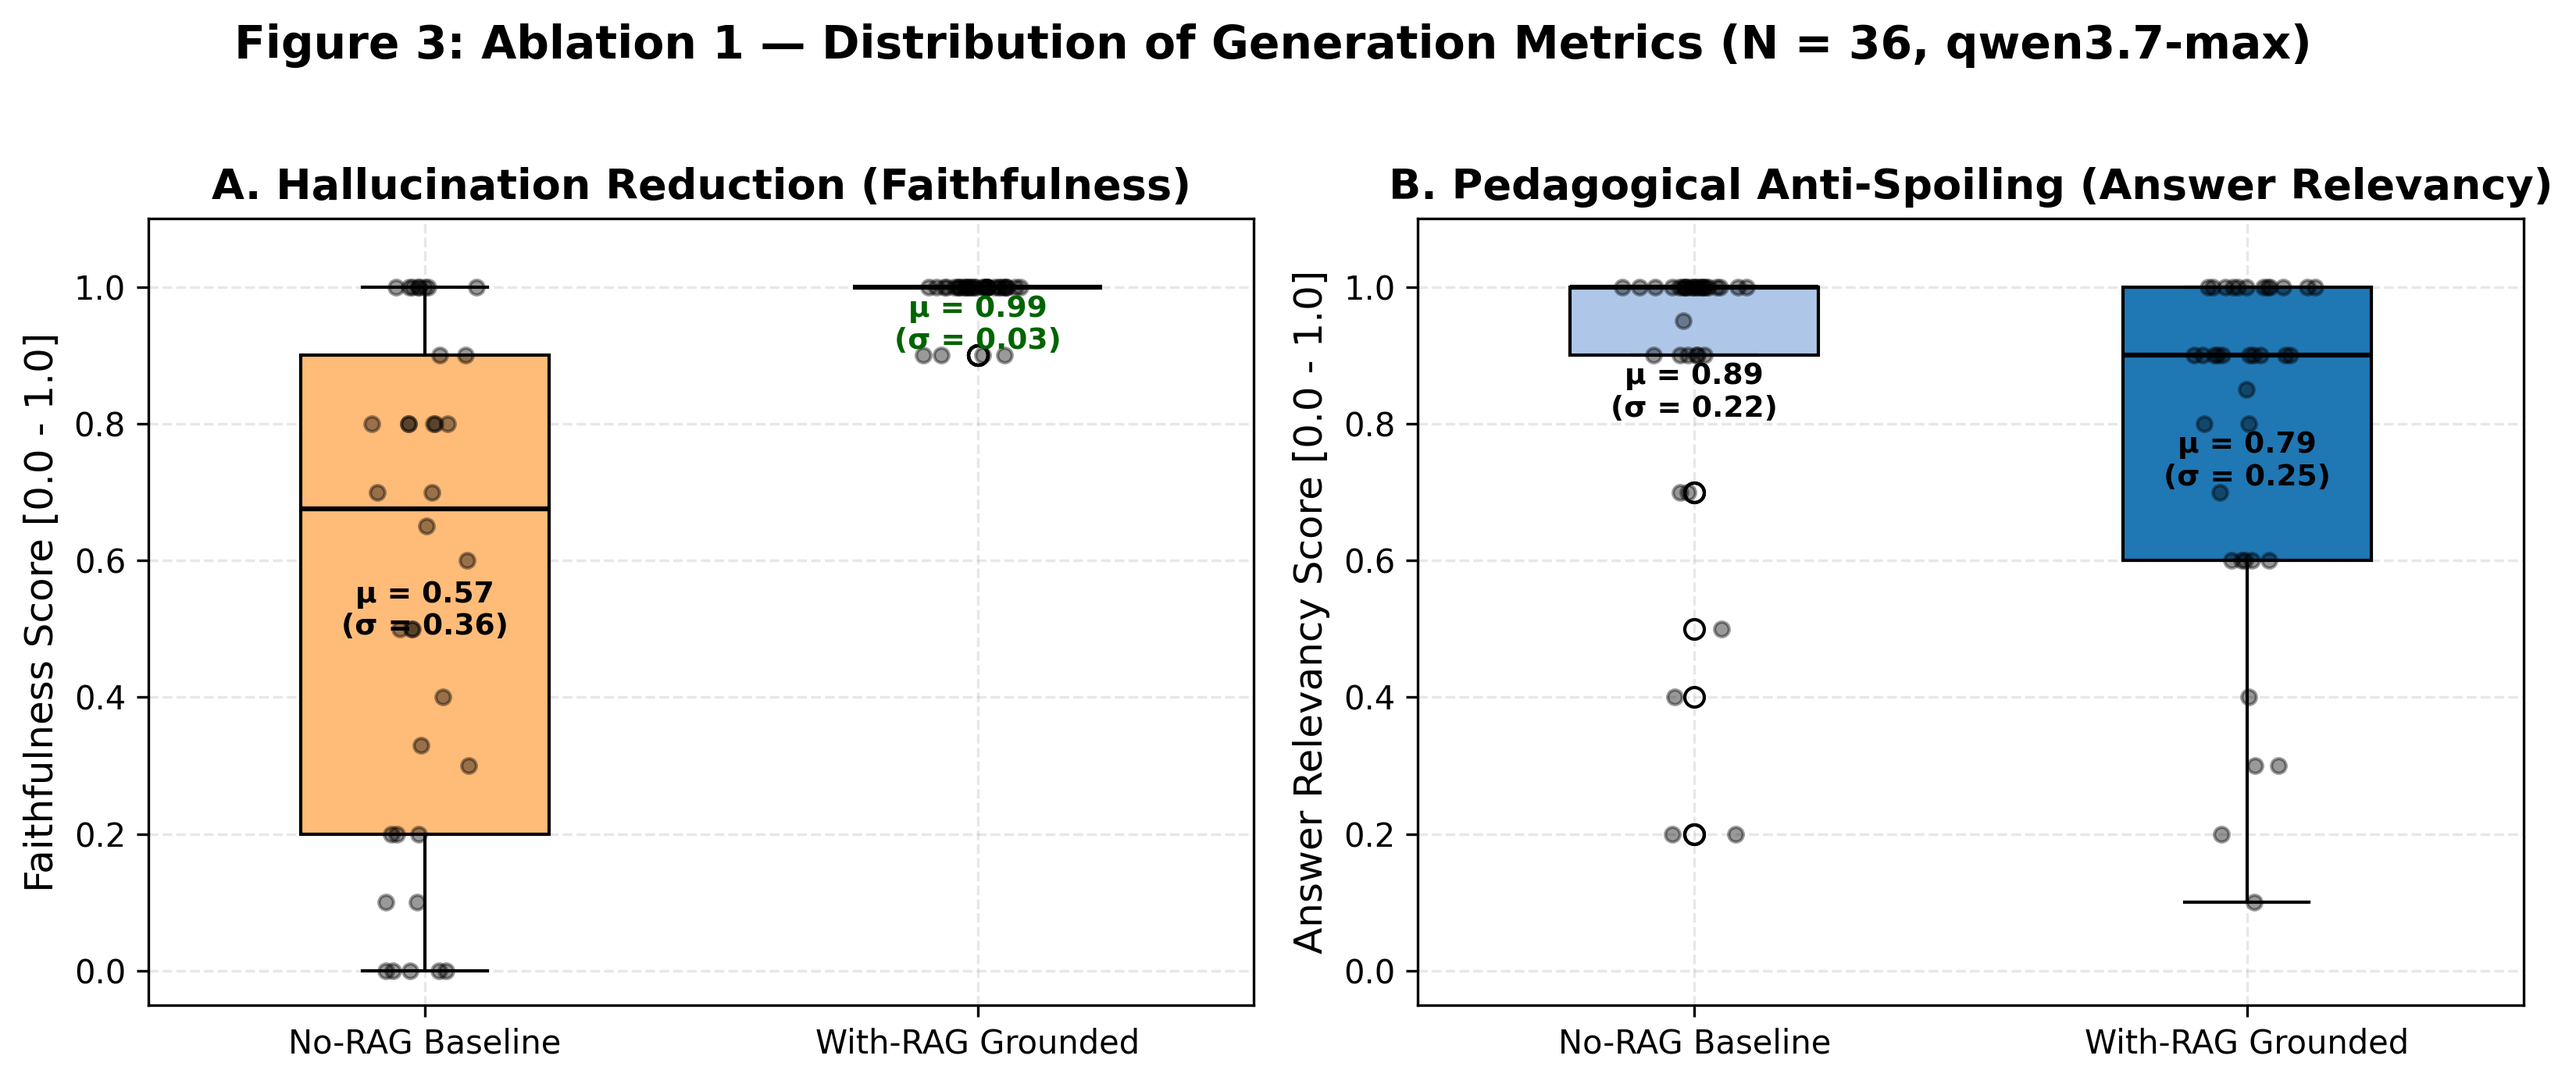
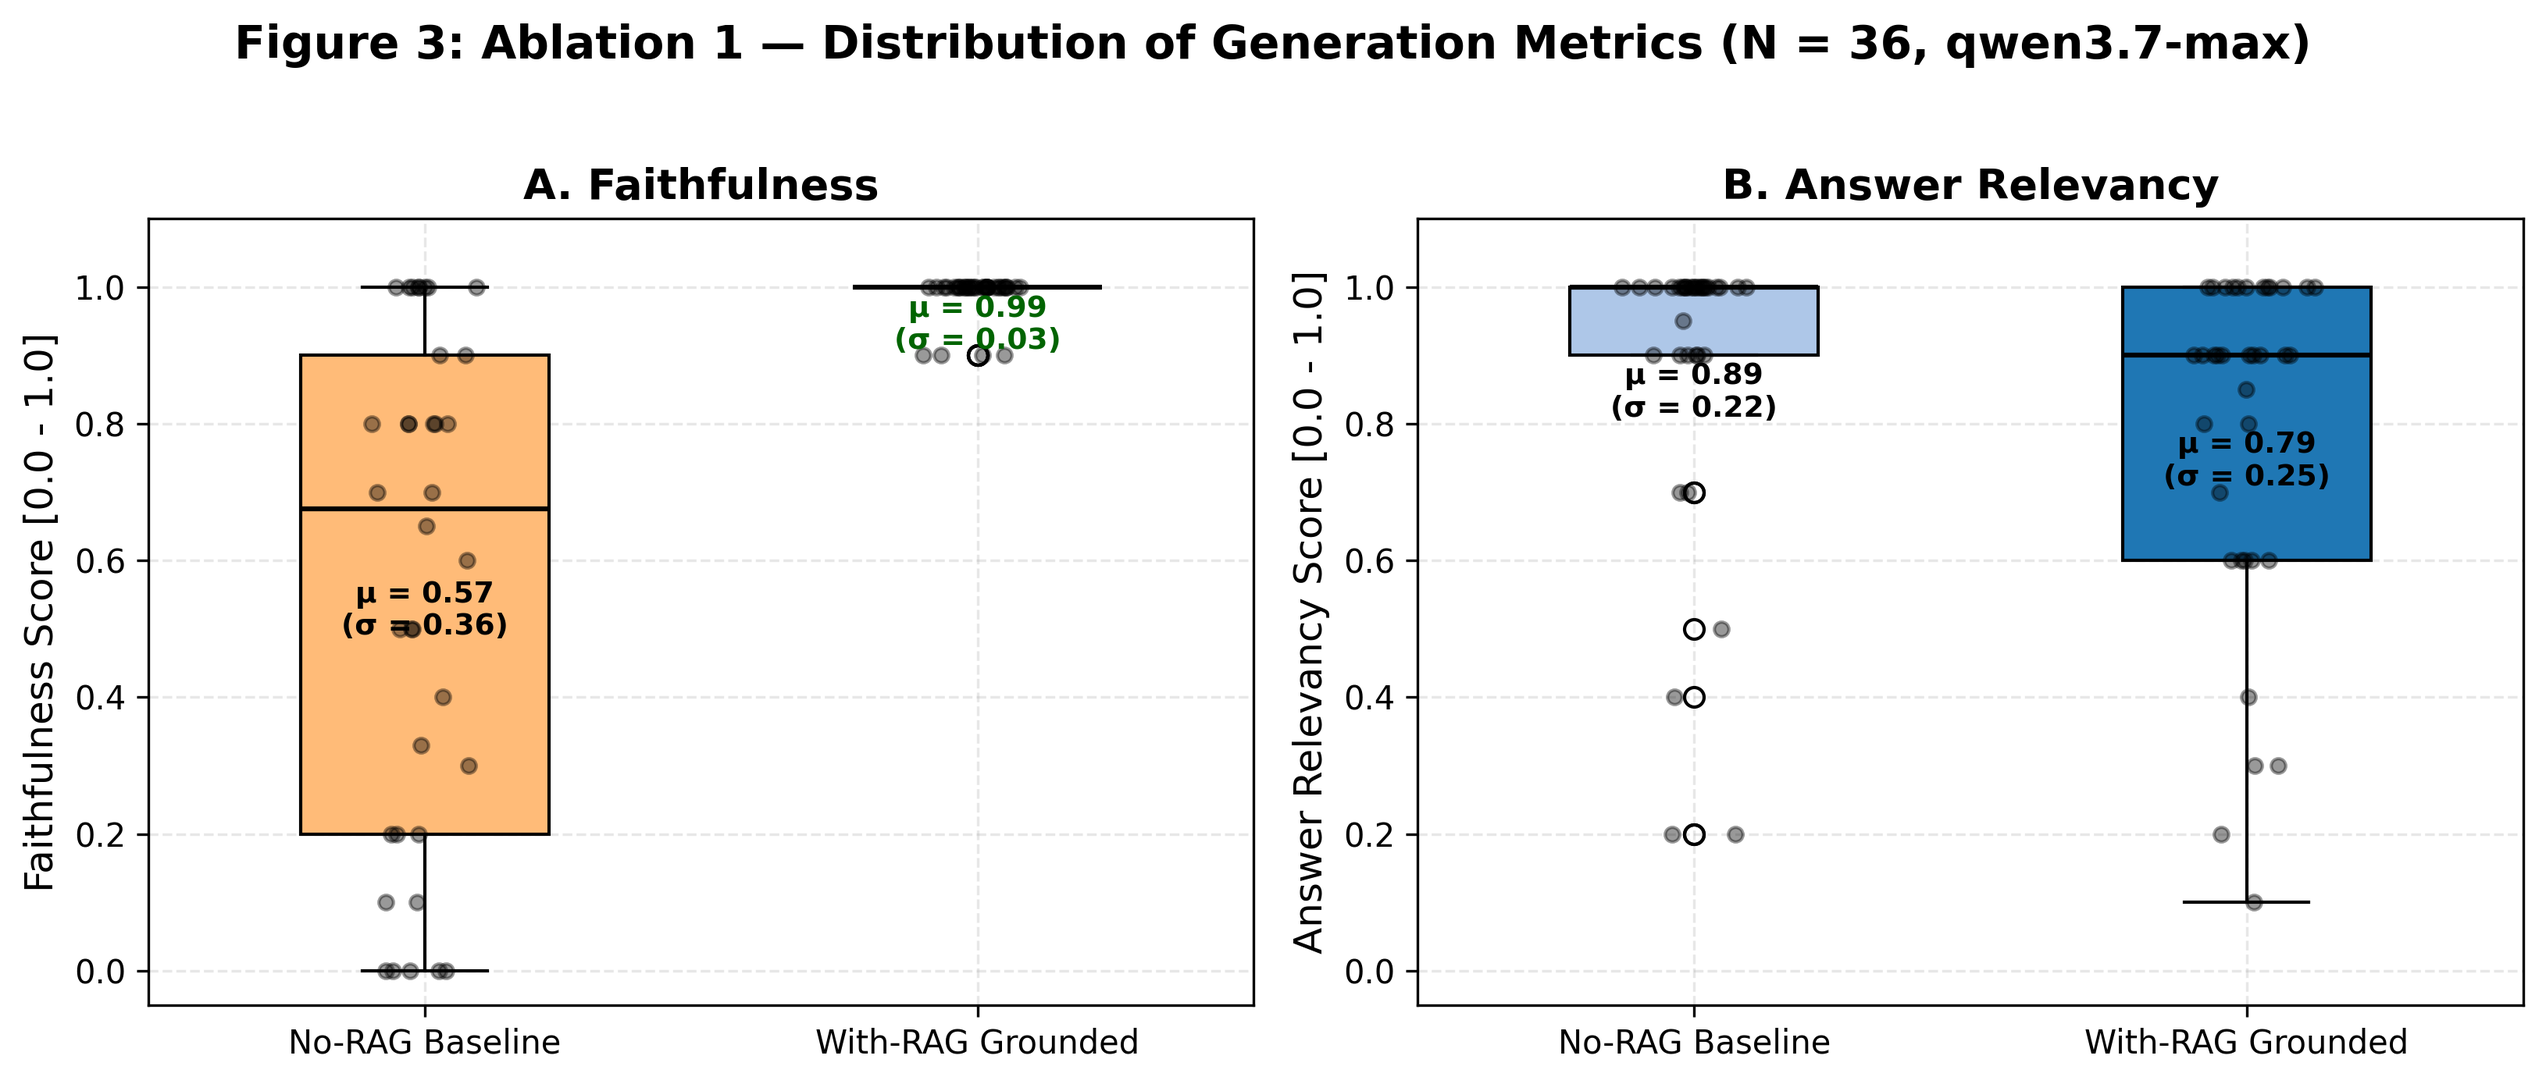
[Result] added the missing vertical axis label (Answer Relevancy Score [0.0 - 1.0]) to the right subplot (B) of Figure 5. [Result] updated Figure 5 to be a 2x2 grid that includes the other two ablation experiments. The updated figure now displays: - A. Faithfulness Across Models (Ablation 1) - B. An

diff --git a/rag-server/plot_results.py b/rag-server/plot_results.py
@@ -244,7 +244,7 @@ def plot_fig3_ablation_rag_effect():
         x_jitter = np.random.normal(i, 0.05, size=len(pts))
         axes[0].scatter(x_jitter, pts, alpha=0.4, color='black', s=20, zorder=3)
 
-    axes[0].set_title('A. Hallucination Reduction (Faithfulness)', fontweight='bold')
+    axes[0].set_title('A. Faithfulness', fontweight='bold')
     axes[0].set_ylabel('Faithfulness Score [0.0 - 1.0]')
     axes[0].set_ylim(-0.05, 1.1)
     axes[0].text(1, np.mean(no_rag_faith) - 0.08, f'μ = {np.mean(no_rag_faith):.2f}\n(σ = {np.std(no_rag_faith):.2f})', ha='center', fontsize=9, fontweight='bold')
@@ -261,7 +261,7 @@ def plot_fig3_ablation_rag_effect():
         x_jitter = np.random.normal(i, 0.05, size=len(pts))
         axes[1].scatter(x_jitter, pts, alpha=0.4, color='black', s=20, zorder=3)
 
-    axes[1].set_title('B. Pedagogical Anti-Spoiling (Answer Relevancy)', fontweight='bold')
+    axes[1].set_title('B. Answer Relevancy', fontweight='bold')
     axes[1].set_ylabel('Answer Relevancy Score [0.0 - 1.0]')
     axes[1].set_ylim(-0.05, 1.1)
     axes[1].text(1, np.mean(no_rag_rel) - 0.08, f'μ = {np.mean(no_rag_rel):.2f}\n(σ = {np.std(no_rag_rel):.2f})', ha='center', fontsize=9, fontweight='bold')
@@ -287,7 +287,7 @@ def plot_fig4_ablation_filters_and_embeddings():
     with open(abl_file, 'r', encoding='utf-8') as f:
         data = json.load(f)
 
-    fig, axes = plt.subplots(1, 2, figsize=(12, 4.2))
+    fig, axes = plt.subplots(1, 2, figsize=(12, 5))
 
     abl2 = data.get('ablation_2_exercise_filter', {}).get('summary', {})
     if abl2:
@@ -320,7 +320,7 @@ def plot_fig4_ablation_filters_and_embeddings():
     abl3 = data.get('ablation_3_title_embedding', {}).get('summary', {})
     if abl3:
         metrics = ['hit@1', 'hit@3', 'hit@5', 'mrr']
-        labels = ['Hit@1 (%)', 'Hit@3 (%)', 'Hit@5 (%)', 'MRR (×100)']
+        labels = ['Hit@1 (%)', 'Hit@3 (%)', 'Hit@5 (%)', 'MRR']
         x = np.arange(len(metrics))
         width = 0.35
 
@@ -335,7 +335,7 @@ def plot_fig4_ablation_filters_and_embeddings():
         axes[1].set_xticklabels(labels)
         axes[1].set_ylabel('Retrieval Accuracy (%)')
         axes[1].set_ylim(min(min(content_only), min(title_content)) - 5, 102)
-        axes[1].legend(loc='lower right', frameon=True)
+        axes[1].legend(loc='upper right', frameon=True)
 
         for bars in [b_co, b_tc]:
             for bar in bars:
@@ -364,6 +364,10 @@ def plot_fig5_cross_model_comparison():
     with_rag_faiths = []
     no_rag_rels = []
     with_rag_rels = []
+    unfilt_prec3 = []
+    filt_prec3 = []
+    co_mrr = []
+    tc_mrr = []
 
     for path in sorted(files):
         m = re.search(r'[_|-](qwen3\.[0-9]+-[a-zA-Z]+)[\-_]', os.path.basename(path))
@@ -371,47 +375,88 @@ def plot_fig5_cross_model_comparison():
             name = m.group(1)
             with open(path, 'r', encoding='utf-8') as f:
                 data = json.load(f)
-                d = data.get('ablation_1_rag_effect', {}).get('summary', {})
+                d1 = data.get('ablation_1_rag_effect', {}).get('summary', {})
                 models.append(name)
-                no_rag_faiths.append(d.get('No-RAG', {}).get('faithfulness', 0.0))
-                with_rag_faiths.append(d.get('With-RAG (Dense)', {}).get('faithfulness', 0.0))
-                no_rag_rels.append(d.get('No-RAG', {}).get('answer_relevancy', 0.0))
-                with_rag_rels.append(d.get('With-RAG (Dense)', {}).get('answer_relevancy', 0.0))
+                no_rag_faiths.append(d1.get('No-RAG', {}).get('faithfulness', 0.0))
+                with_rag_faiths.append(d1.get('With-RAG (Dense)', {}).get('faithfulness', 0.0))
+                no_rag_rels.append(d1.get('No-RAG', {}).get('answer_relevancy', 0.0))
+                with_rag_rels.append(d1.get('With-RAG (Dense)', {}).get('answer_relevancy', 0.0))
+
+                abl2 = data.get('ablation_2_exercise_filter', {}).get('summary', {})
+                unfilt_prec3.append(abl2.get('Unfiltered (excludeExercises=False)', {}).get('prec@3', 0.0) * 100)
+                filt_prec3.append(abl2.get('Filtered (excludeExercises=True)', {}).get('prec@3', 0.0) * 100)
+
+                abl3 = data.get('ablation_3_title_embedding', {}).get('summary', {})
+                co_mrr.append(abl3.get('Content-Only Embedding', {}).get('mrr', 0.0) * 100)
+                tc_mrr.append(abl3.get('Title+Content Embedding', {}).get('mrr', 0.0) * 100)
 
     if not models:
         return
 
-    fig, axes = plt.subplots(1, 2, figsize=(11, 4.3), sharey=True)
+    fig, axes = plt.subplots(2, 2, figsize=(13, 9))
     x = np.arange(len(models))
     width = 0.35
 
-    b_nf = axes[0].bar(x - width/2, no_rag_faiths, width, label='No-RAG', color=PALETTE['light_orange'], edgecolor='black', alpha=0.85)
-    b_wf = axes[0].bar(x + width/2, with_rag_faiths, width, label='With-RAG', color=PALETTE['green'], edgecolor='black', alpha=0.85)
-    axes[0].set_title('A. Faithfulness Across Models', fontweight='bold')
-    axes[0].set_xticks(x)
-    axes[0].set_xticklabels(models, rotation=15)
-    axes[0].set_ylabel('Faithfulness Score [0.0 - 1.0]')
-    axes[0].set_ylim(0, 1.15)
-    axes[0].legend(loc='lower right', frameon=True)
+    b_nf = axes[0, 0].bar(x - width/2, no_rag_faiths, width, label='No-RAG', color=PALETTE['light_orange'], edgecolor='black', alpha=0.85)
+    b_wf = axes[0, 0].bar(x + width/2, with_rag_faiths, width, label='With-RAG', color=PALETTE['green'], edgecolor='black', alpha=0.85)
+    axes[0, 0].set_title('A. Faithfulness Across Models', fontweight='bold')
+    axes[0, 0].set_xticks(x)
+    axes[0, 0].set_xticklabels(models, rotation=15)
+    axes[0, 0].set_ylabel('Faithfulness Score [0.0 - 1.0]')
+    axes[0, 0].set_ylim(0, 1.15)
+    axes[0, 0].legend(loc='upper right', frameon=True)
 
     for bars in [b_nf, b_wf]:
         for bar in bars:
             height = bar.get_height()
-            axes[0].annotate(f'{height:.2f}', xy=(bar.get_x() + bar.get_width() / 2, height),
+            axes[0, 0].annotate(f'{height:.2f}', xy=(bar.get_x() + bar.get_width() / 2, height),
                              xytext=(0, 2), textcoords="offset points", ha='center', va='bottom', fontsize=8, fontweight='bold')
 
-    b_nr = axes[1].bar(x - width/2, no_rag_rels, width, label='No-RAG', color=PALETTE['light_blue'], edgecolor='black', alpha=0.85)
-    b_wr = axes[1].bar(x + width/2, with_rag_rels, width, label='With-RAG', color=PALETTE['primary'], edgecolor='black', alpha=0.85)
-    axes[1].set_title('B. Answer Relevancy Across Models', fontweight='bold')
-    axes[1].set_xticks(x)
-    axes[1].set_xticklabels(models, rotation=15)
-    axes[1].set_ylabel('')
-    axes[1].legend(loc='lower right', frameon=True)
+    b_nr = axes[0, 1].bar(x - width/2, no_rag_rels, width, label='No-RAG', color=PALETTE['light_blue'], edgecolor='black', alpha=0.85)
+    b_wr = axes[0, 1].bar(x + width/2, with_rag_rels, width, label='With-RAG', color=PALETTE['primary'], edgecolor='black', alpha=0.85)
+    axes[0, 1].set_title('B. Answer Relevancy Across Models', fontweight='bold')
+    axes[0, 1].set_xticks(x)
+    axes[0, 1].set_xticklabels(models, rotation=15)
+    axes[0, 1].set_ylabel('Answer Relevancy Score [0.0 - 1.0]')
+    axes[0, 1].set_ylim(0, 1.15)
+    axes[0, 1].legend(loc='upper right', frameon=True)
 
     for bars in [b_nr, b_wr]:
         for bar in bars:
             height = bar.get_height()
-            axes[1].annotate(f'{height:.2f}', xy=(bar.get_x() + bar.get_width() / 2, height),
+            axes[0, 1].annotate(f'{height:.2f}', xy=(bar.get_x() + bar.get_width() / 2, height),
+                             xytext=(0, 2), textcoords="offset points", ha='center', va='bottom', fontsize=8, fontweight='bold')
+
+    b_unf = axes[1, 0].bar(x - width/2, unfilt_prec3, width, label='Unfiltered', color=PALETTE['red'], edgecolor='black', alpha=0.75)
+    b_fil = axes[1, 0].bar(x + width/2, filt_prec3, width, label='Filtered (Exclude)', color=PALETTE['green'], edgecolor='black', alpha=0.85)
+    axes[1, 0].set_title('C. Retrieval: ± Exercise Filter (Prec@3)', fontweight='bold')
+    axes[1, 0].set_xticks(x)
+    axes[1, 0].set_xticklabels(models, rotation=15)
+    axes[1, 0].set_ylabel('Prec@3 (%)')
+    if unfilt_prec3 and filt_prec3:
+        axes[1, 0].set_ylim(0, max(max(unfilt_prec3), max(filt_prec3)) + 10)
+    axes[1, 0].legend(loc='upper right', frameon=True)
+
+    for bars in [b_unf, b_fil]:
+        for bar in bars:
+            height = bar.get_height()
+            axes[1, 0].annotate(f'{height:.1f}%', xy=(bar.get_x() + bar.get_width() / 2, height),
+                             xytext=(0, 2), textcoords="offset points", ha='center', va='bottom', fontsize=8, fontweight='bold')
+
+    b_co = axes[1, 1].bar(x - width/2, co_mrr, width, label='Content-Only', color=PALETTE['light_blue'], edgecolor='black', alpha=0.85)
+    b_tc = axes[1, 1].bar(x + width/2, tc_mrr, width, label='Title + Content', color=PALETTE['primary'], edgecolor='black', alpha=0.85)
+    axes[1, 1].set_title('D. Vectorization: ± Section Title (MRR)', fontweight='bold')
+    axes[1, 1].set_xticks(x)
+    axes[1, 1].set_xticklabels(models, rotation=15)
+    axes[1, 1].set_ylabel('MRR (%)')
+    if co_mrr and tc_mrr:
+        axes[1, 1].set_ylim(min(min(co_mrr), min(tc_mrr)) - 10, 105)
+    axes[1, 1].legend(loc='upper right', frameon=True)
+
+    for bars in [b_co, b_tc]:
+        for bar in bars:
+            height = bar.get_height()
+            axes[1, 1].annotate(f'{height:.1f}%', xy=(bar.get_x() + bar.get_width() / 2, height),
                              xytext=(0, 2), textcoords="offset points", ha='center', va='bottom', fontsize=8, fontweight='bold')
 
     fig.suptitle('Figure 5: Cross-Model Robustness (N = 36)', fontweight='bold', y=1.02)
